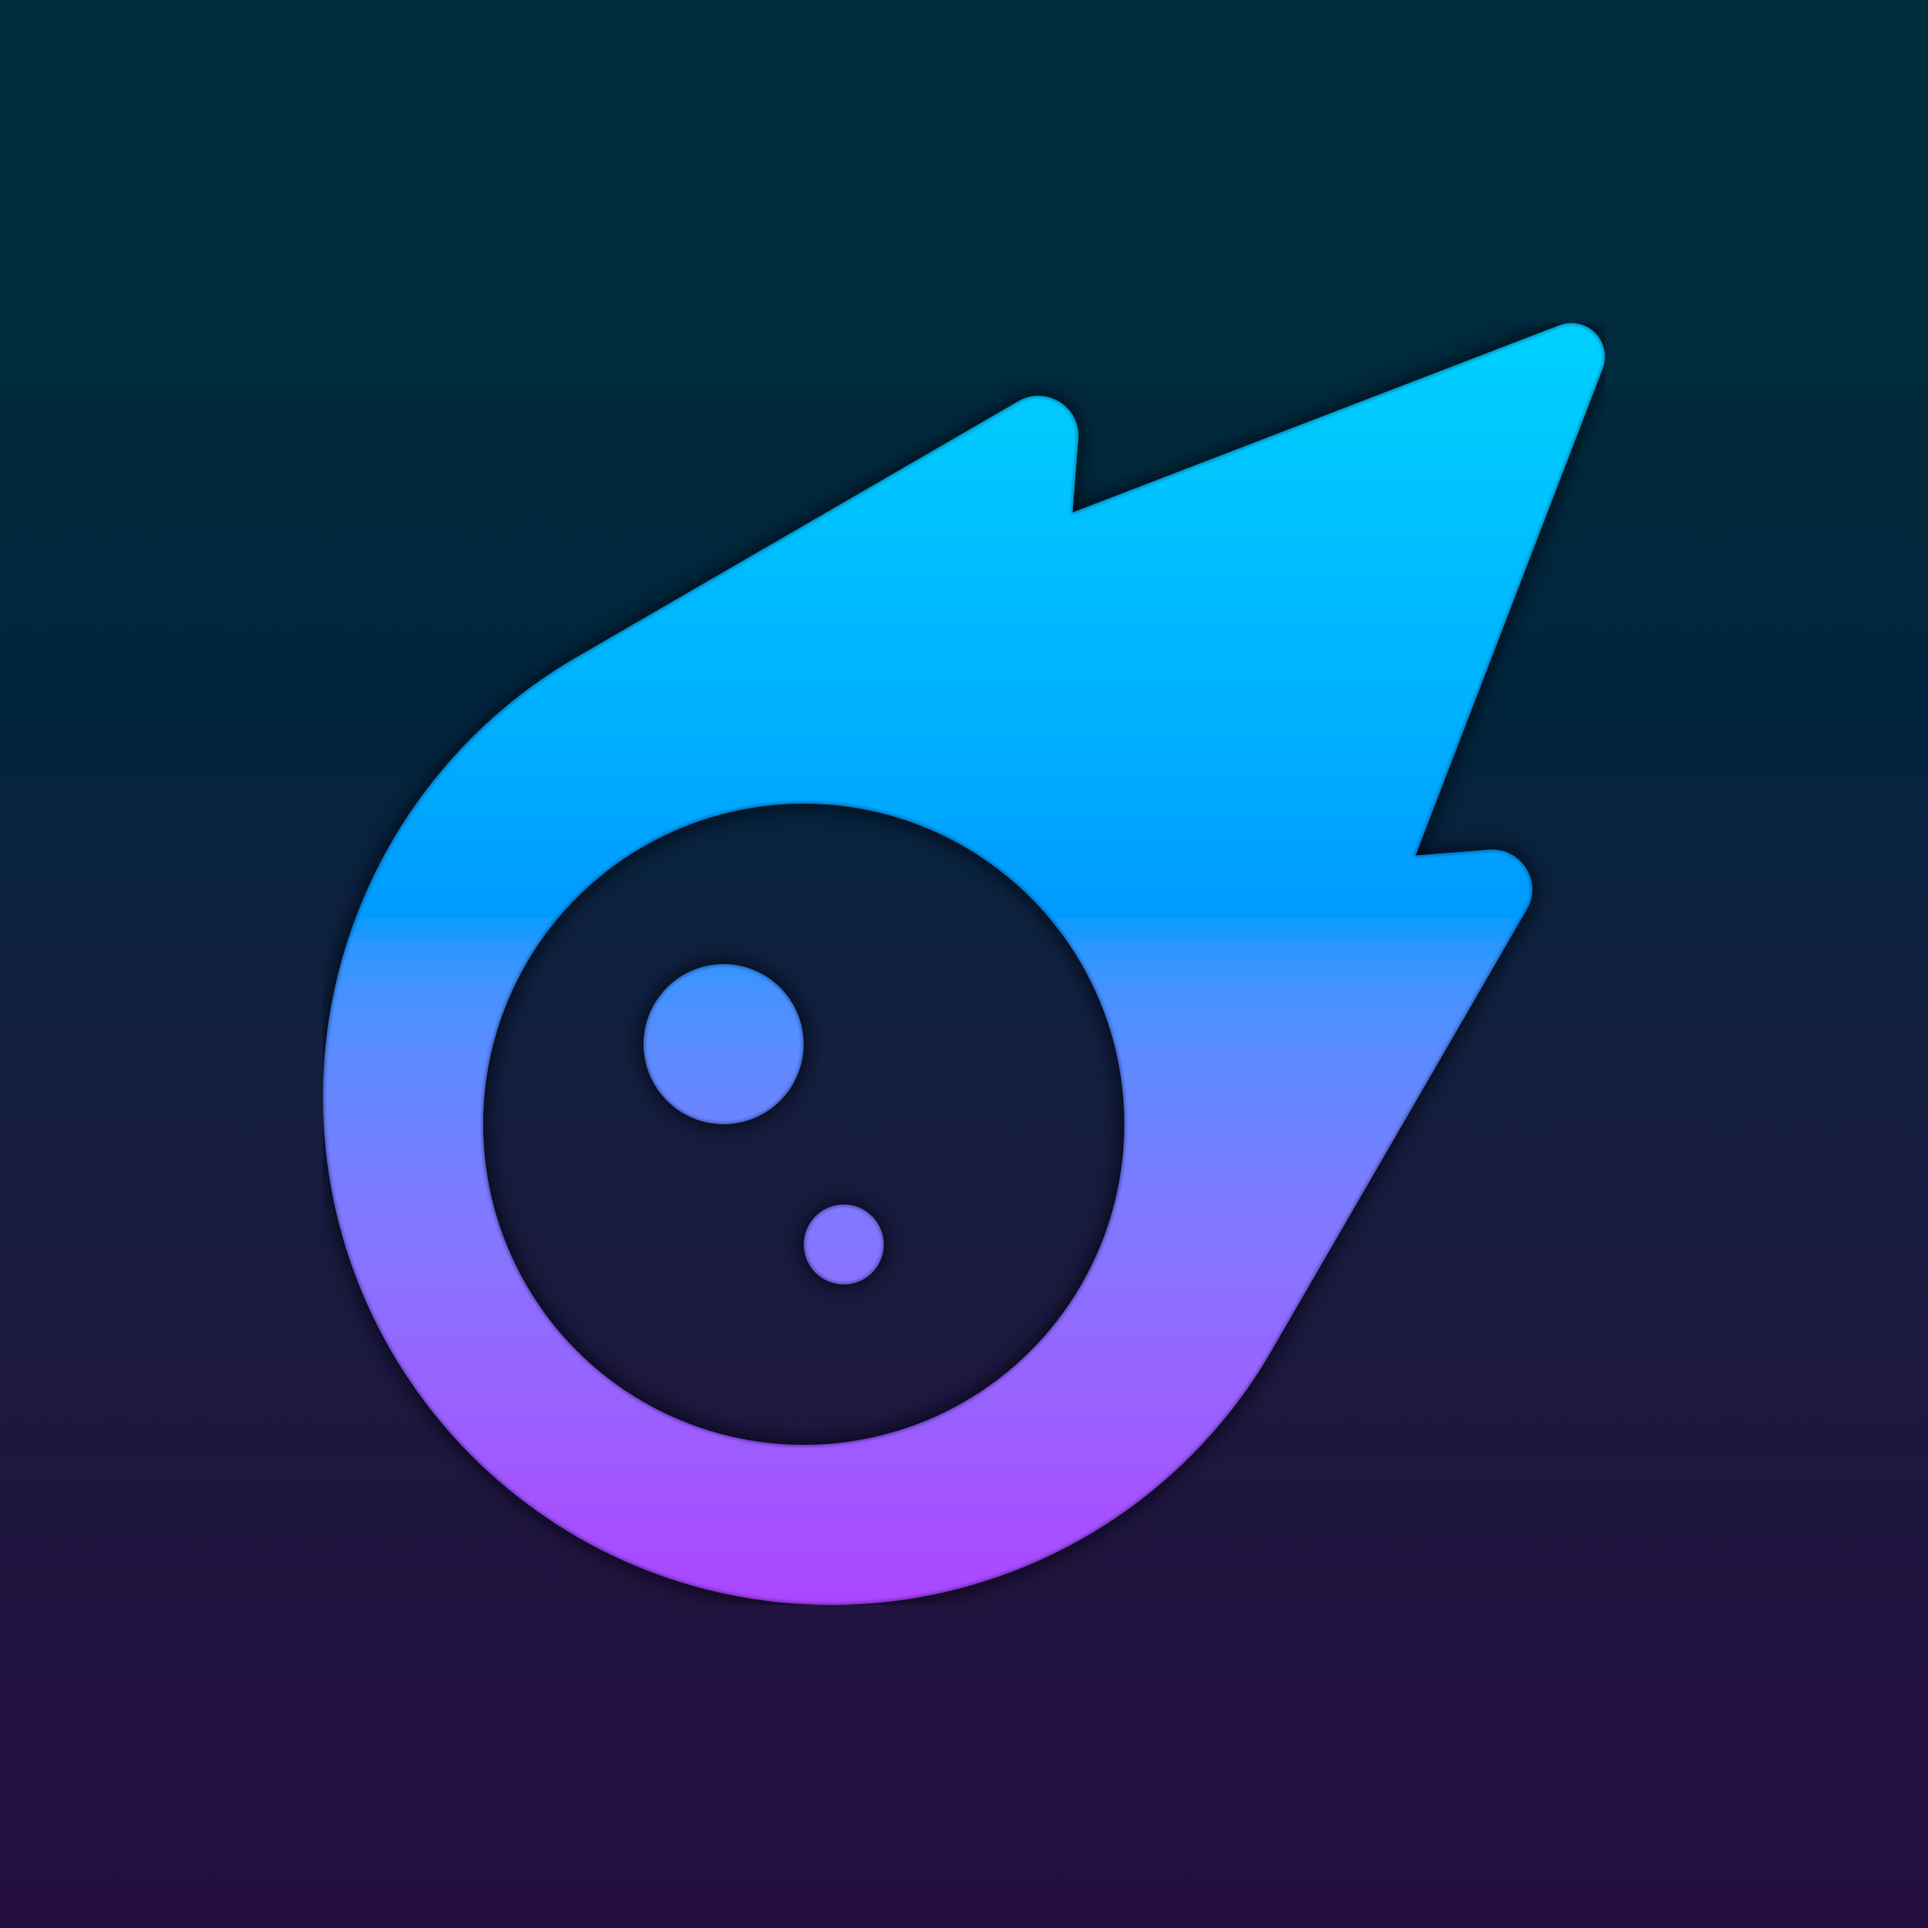
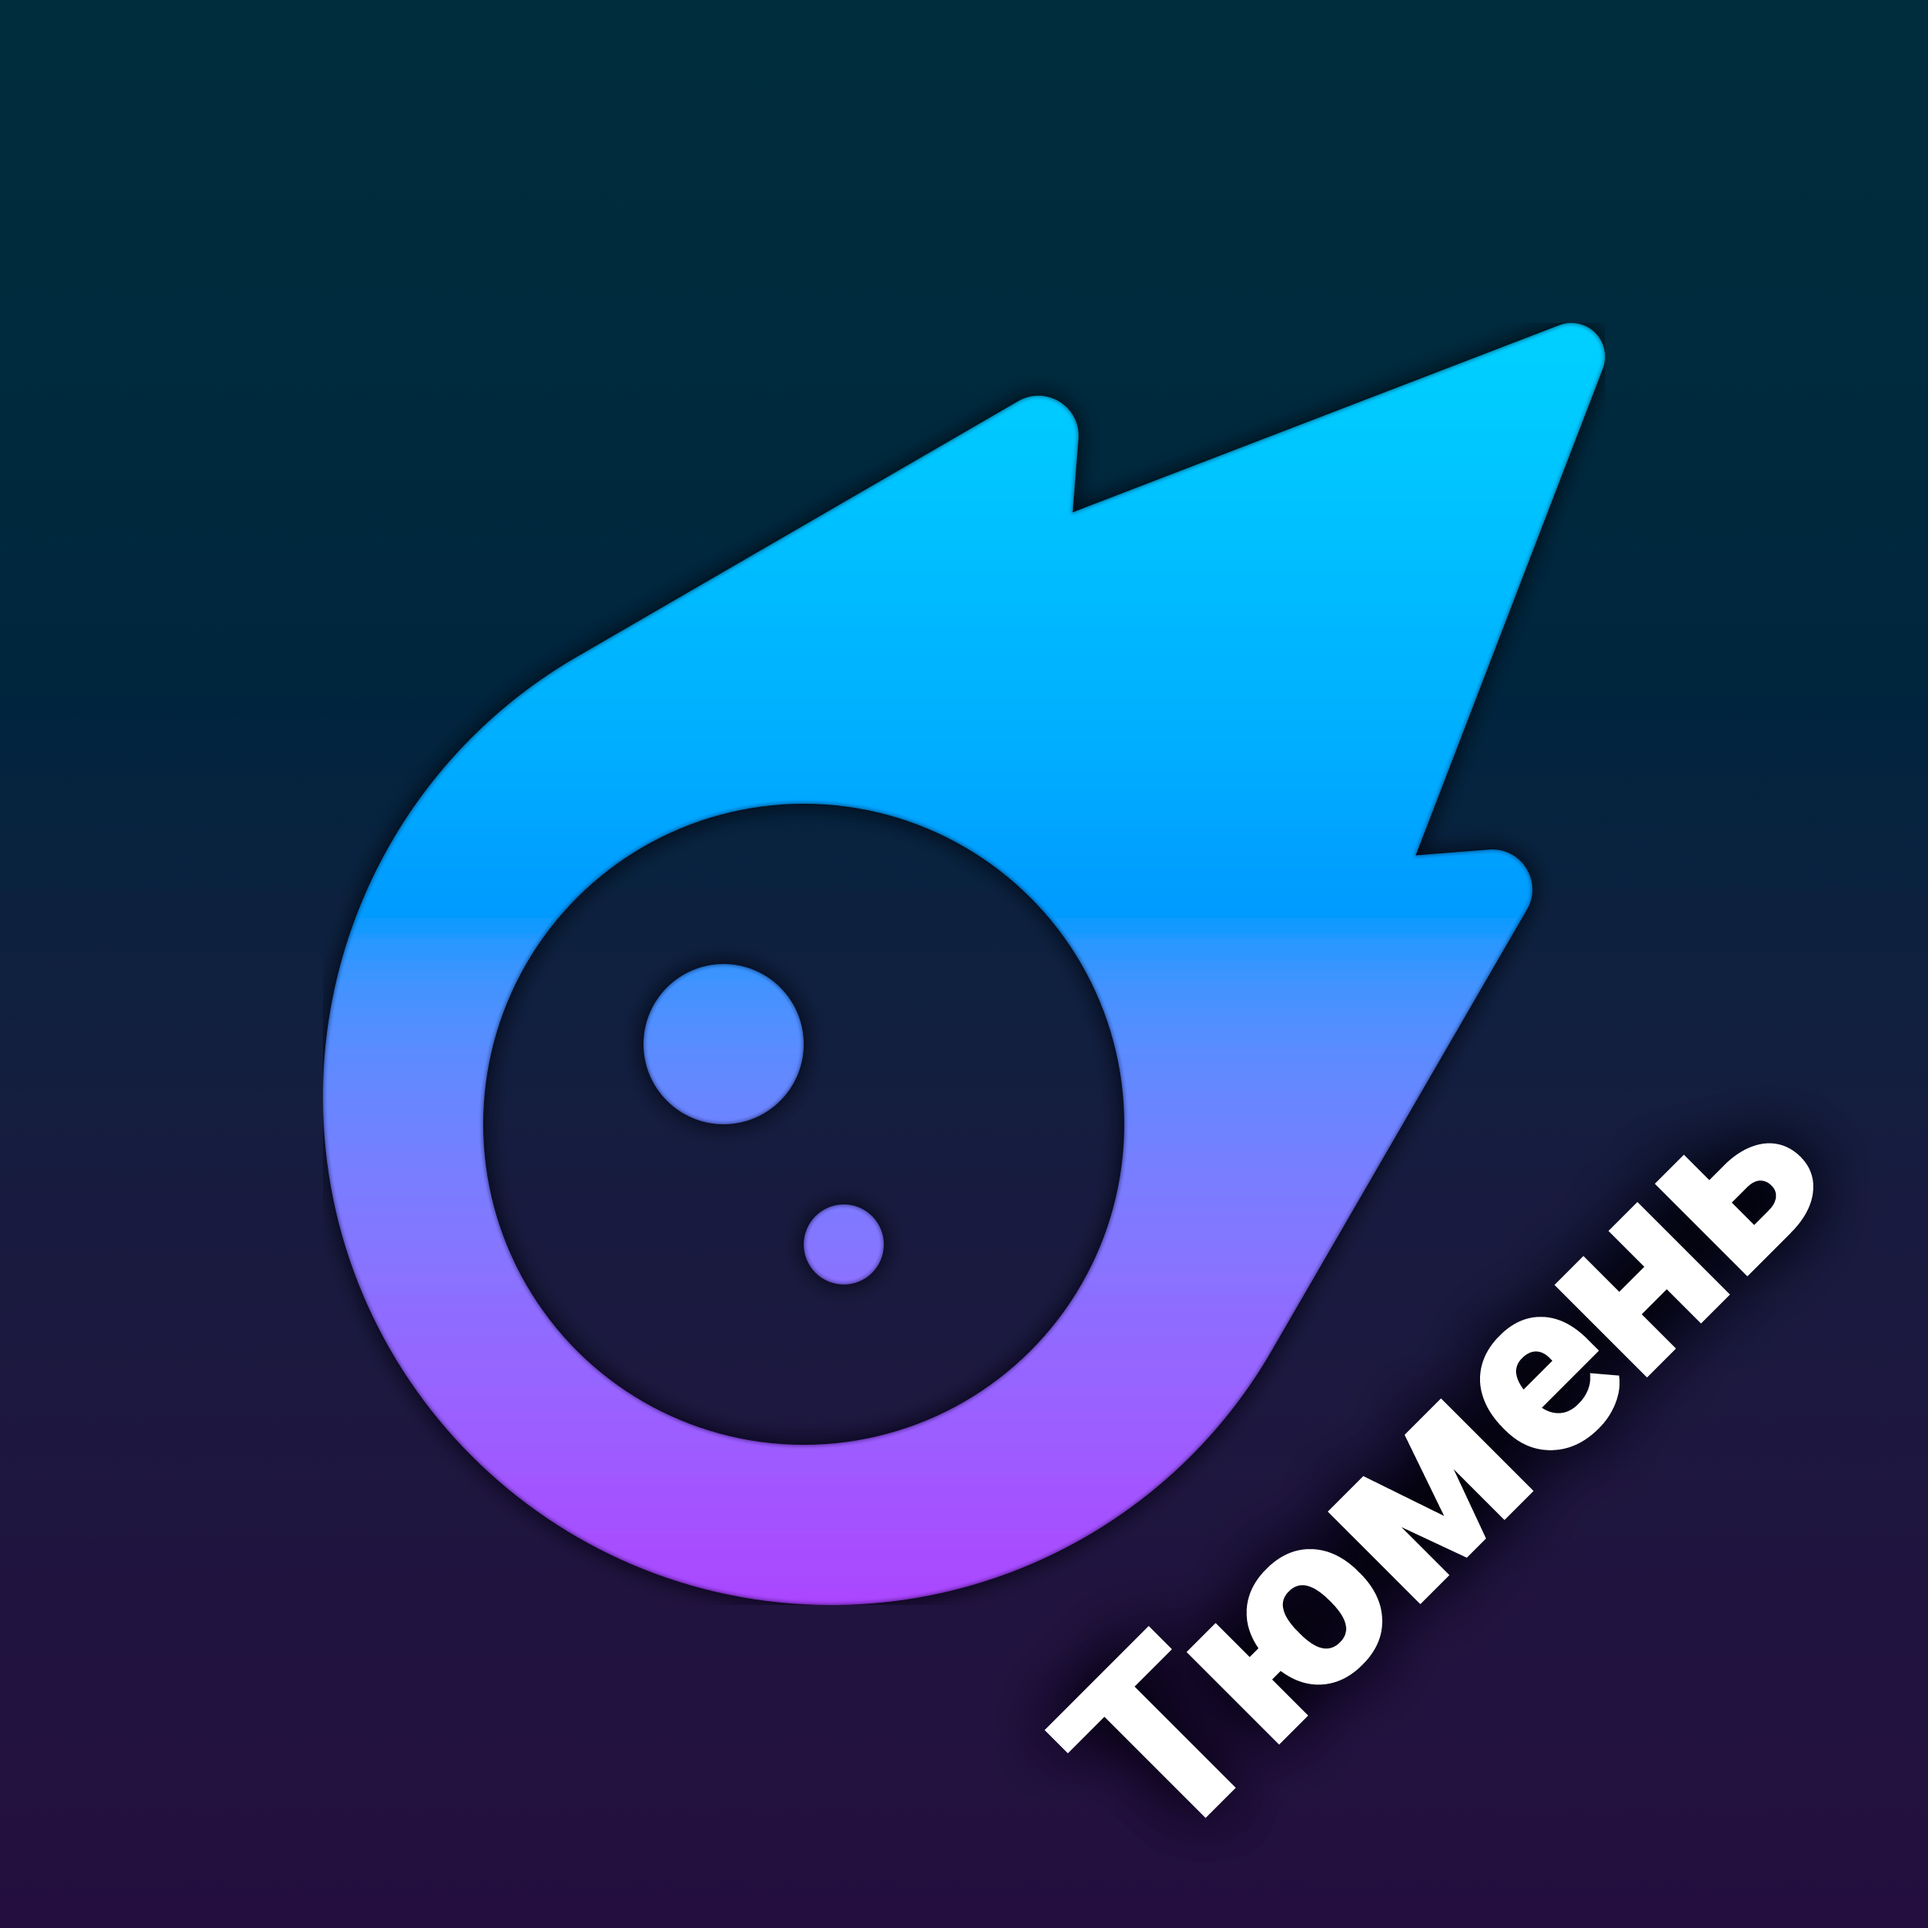
v1.12 tumenFix

Changed region(s): [[0.5299, 0.5923, 0.9352, 0.9352]]

diff --git a/index.html b/index.html
@@ -44,10 +44,6 @@
             <div class="coolDownIndicator"></div>
         </button> -->
     </nav>
-    <nav class="contacts">
-        <a href="https://github.com/rocaN5/QR-For-Yandex" target="_blank"><i class="fa-solid fa-code"></i></a>
-        <a href="https://rocan5.github.io/contacts/" target="_blank"><i class="developer"></i></a>
-    </nav>
     <div class="shortcut">
         <div class="shortcutContainer">
             <i class="fa-solid fa-keyboard" aria-hidden="true"></i>
@@ -340,8 +336,8 @@
                             </div>
                         </div>
                         <div class="itemDescriptionDemo">
-                            <img class="gifQrGeneration gifQrGeneration__before" src="img/qrBefore_`.gif" alt="Генерация QR-Кода до версии v1.10">
-                            <img class="gifQrGeneration gifQrGeneration__after" src="img/qr_v1.10.gif" alt="Генерация QR-Кода с версии v1.10">
+                            <img class="gifQrGeneration gifQrGeneration__before" src="img/oldqr.gif" alt="Генерация QR-Кода до версии v1.10">
+                            <img class="gifQrGeneration gifQrGeneration__after" src="img/newqr.gif" alt="Генерация QR-Кода с версии v1.10">
                         </div>
                     </li>
                     <li>
@@ -493,7 +489,7 @@
                             <i class="fa-regular fa-circle-plus iconUpdate"></i>
                             <div class="itemDescriptionText">
                                 <p class="itemDescriptionTextInfo">Архивация QR кодов</p>
-                                <p class="itemDescriptionTextInfoSub">Создан канал в <a class="telegrammLink" href="https://t.me/+Q-_xd8eDIOs0NGYy"><i class="fa-brands fa-telegram"></i> Telegramm</a>. При печати сгенерированного QR Кода, бот автоматически отправляет его в телеграмм канал с подробной информацией</p>
+                                <p class="itemDescriptionTextInfoSub">Создан канал в <a class="telegrammLink" href="https://t.me/ScTumenQrGenerator"><i class="fa-brands fa-telegram"></i> Telegramm</a>. При печати сгенерированного QR Кода, бот автоматически отправляет его в телеграмм канал с подробной информацией</p>
                             </div>
                         </div>
                     </li>

diff --git a/app.js b/app.js
@@ -59,7 +59,7 @@ function generateCodes() {
     var companyInfoDiv = document.createElement("div");
     companyInfoDiv.id = "company-info";
     var companyName = document.createElement("h1");
-    companyName.textContent = "СЦ Воронеж";
+    companyName.textContent = "СЦ Тюмень";
     var dateTime = document.createElement("span");
     dateTime.id = "datetime";
     dateTime.innerHTML = getCurrentDateTime();
@@ -312,7 +312,7 @@ function convertToImageAndOpenInNewTab() {
 // Функция для отправки изображения в Telegram
 function sendImageToTelegram() {
   const token = '7095204830:AAFx3-UnTed0mJbQ0Fh7NgomKUwDEEo8JtE';
-  const chatId = '-1002405934260';
+  const chatId = '-1002271464577';
   const imgElement = document.querySelector('img.test-img');
   const captionInputText = document.getElementById('qr-text')?.value || ''; // Получаем значение из инпута
   const currentDate = new Date().toLocaleString('ru-RU', {
@@ -351,7 +351,7 @@ function sendImageToTelegram() {
 <b>🕑 Время:</b> <i>${currentTime}</i>
 
 <b><a href="https://rocan5.github.io/QR-For-Yandex/">👾 Меня создали тут</a></b>
-<b><a href="${piLink}">🔎 Найди меня в ПИ</a></b>
+<b><a href="https://ждём_когда_даня_даст_ссылку_😐">🔎 Найди меня в ПИ</a></b>
   
 `;
 
